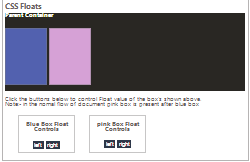
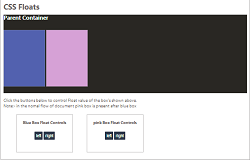
first commit

Changed region(s): [[0.0, 0.0, 1.0, 0.9938]]

diff --git a/_site/demo/Todo/todo.css b/_site/demo/Todo/todo.css
@@ -84,6 +84,7 @@ body{
        top: 43px;
        background-position: -93px -212px;
        left: 4px;
+       cursor: pointer;
 }
 #itemContainer {
 	position: relative;
@@ -112,6 +113,7 @@ body{
     background-position: -101px -70px;
     left: 8px;
     top: 28px;
+    cursor: pointer;
 }
 p {
 	display: inline-block;
@@ -132,6 +134,7 @@ li button {
     background: url(todo.png);
     background-position: -103px -18px;
     border-radius: 55%;
+    cursor: pointer;
 } 
 #menu {
 	position: relative;
@@ -161,6 +164,7 @@ li button {
     height: 24px;
     outline: none;
     margin-left:10px;
+    cursor: pointer;
 }
 #all {
 	margin-left: 82px;

diff --git a/_site/css/demos.css b/_site/css/demos.css
@@ -157,14 +157,14 @@ body{
 .main ul li.card img {
 
   margin:20px;
-  margin-left:2px;
+  
 }
 .main ul li.card a.demoButton {
                
-       margin-top:10px;
+       margin-top:0px;
        display:block;
        margin-left:0px;
-       margin-bottom:11px;
+       margin-bottom:4px;
        padding:7px 5px;
        width:103px;
        text-align:center;
@@ -244,7 +244,7 @@ body{
 .main ul li.float img {
 
   margin:20px;
-  margin-left:2px;
+  margin-left:9px;
   margin-bottom:62px;
 }
 .main ul li.float a.demoButton {

diff --git a/_site/demo/card/card.css b/_site/demo/card/card.css
@@ -1,7 +1,12 @@
+body {
+
+    background: #f8f8f8;
+}
 .maincontain{
 
     width:960px;
     margin:0 auto;
+    margin-top:42px;
 }
 .maincontain .container{
 
@@ -65,6 +70,7 @@
 
     width:960px;
     margin:0 auto;
+    height:54px;
 }
 .clickcontain .flip {
         
@@ -73,7 +79,7 @@
         margin-bottom: 11px;
         padding:7px 5px;
         position:relative;
-        left:413px;
+        left:403px;
         float:left;
         width:103px;
         text-decoration: none;

diff --git a/_site/demo/dropdown/blog.html b/_site/demo/dropdown/blog.html
@@ -4,7 +4,7 @@
 <link rel="stylesheet" type="text/css" href="blog.css">
 </head>
 <body>
-	<div>
+	
 <ul id="nav">
 
      <li> <a href=""> Home </a> </li>
@@ -29,7 +29,7 @@
      </li>
      <li> <a href="">About</a> </li>
  </ul>
-</div>
+
  <script src="jquery-2.1.0.js"></script>
  <script type="text/javascript" src="blog.js"></script>
  </body>

diff --git a/_site/demo/dropdown/blog.css b/_site/demo/dropdown/blog.css
@@ -1,6 +1,7 @@
 body {
 
 	background-color: #f7efeb;
+	margin: 0;
 }
 
 #nav {
